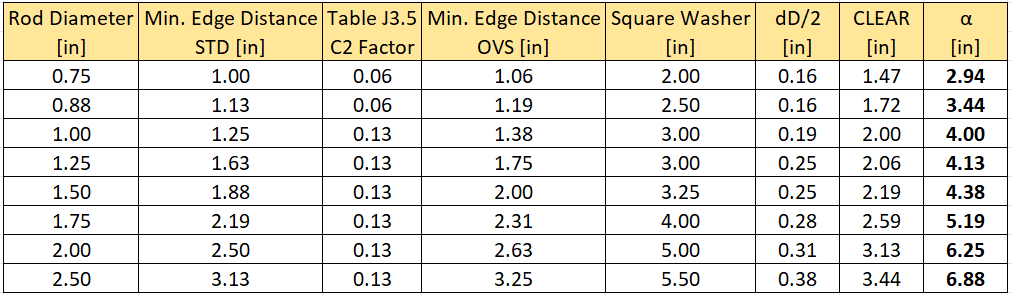
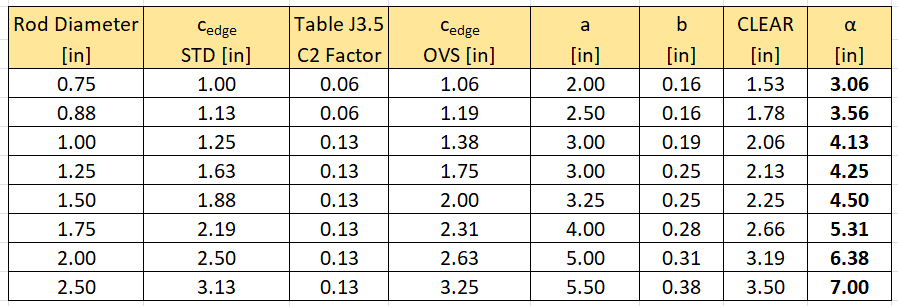
revisions

Changed region(s): [[0.0, 0.0, 1.0, 1.0]]

diff --git a/_posts/2022-12-10-shoedog.md b/_posts/2022-12-10-shoedog.md
@@ -10,9 +10,9 @@ tags: books
 
 As soon as I started reading Shoe Dog, I knew it was going to be one of *those* books. The ones you just can't put down. The ones that negatively impact your sleep schedule because: "just one more page!"
 
-Shoe Dog has been recommended to me probably a dozen times in the past few years. Now I can see why. I didn't think autobiographies could be this entertaining and engagingly. It was crisply written with an impeccable sense of humor and humility. Shoe Dog was a page-turner from start to finish.
+Shoe Dog has been recommended to me probably a dozen times in the past few years. I didn't think autobiographies could be this entertaining and engagingly. Crisply written with an impeccable sense of humor and humility, shoe Dog was a page-turner from start to finish.
 
-Shoe Dog is the life story, and business adventures of Phil Knight, founder of arguably the most recognizable sports brand in the world. We follow Phil on his journey from an ambitious MBA student trying to find his place in the world to founding and growing Nikes to a $170 billion global behemoth. Shoe Dog gives us an insider look at what business success looks like.
+Shoe Dog is the life story, and business adventures of Phil Knight, founder of arguably the most recognizable sports brand in the world. We follow Phil on his journey from an ambitious MBA student trying to find his place in the world to founding and growing Nike to a $170 billion global behemoth. Shoe Dog gives us an insider look at what business success looks like.
 
 ## Finding His Path
 
@@ -26,13 +26,13 @@ His adventure led him to Japan.
 
 * Back in the 1960s, Japan was known for its discipline, impeccable order, and extreme cleanliness. More than anything, Japan's economic miracle after the war showed the world what its industries are capable of.
 * During the second World War, American B-29s dropped 750,000 pounds of gasoline and flammable jelly in what was euphemistically named "strategic bombings". Tokyo, and many other cities back then were made largely of wood. Three hundred thousand people were burned alive during these bombing runs (4x more than Hiroshima), more than a million people injured, 80% of all buildings vaporized, cities were wiped off the map. 
-* From the ruins of the second world war, Japan recovered to become the third largest economy in the world. 
+* From the ruins of the second world war, Japan recovered to eventually become the third largest economy in the world. 
 * During his time at Stanford Business School, Phil wrote a research paper in his entrepreneurial seminar class on the opportunity in outsourcing shoe manufacturing to Japan. In brief, in the 1960s, Japan had its economic miracle and its cameras had made a deep cut into the camera market that was previously dominated by Germans. Seeing the opportunities created by globalization, Phil argued that the same thing could happen to running shoes.
-* Before the trip, Phil had prepared extensively for the different business practices in Japan. He wanted to pitch his "crazy idea" to a growing Japanese shoe company known as Onitsuka (now known as Asics)
+* Before the trip, Phil had prepared extensively for the different business practices in Japan. He wanted to pitch his "crazy idea" to a growing Japanese shoe company called Onitsuka (now known as Asics)
 
-> "The key is don't be pushy. Don't come on like the typical asshole American, the typical gaijin - rude, loud, aggressive, not taking no for an answer. The Japanese do not react well to the hard sell. Negotiations here tend to be soft, sinewy. [...] It's a culture of indirection. No one ever turns you down flat. No one ever says straight out, no. But they don't say yes, either. They speak in circles, sentences with no clear subject or object"
+> "The key is don't be pushy. Don't come on like the typical asshole American, the typical gaijin - rude, loud, aggressive, not taking no for an answer. The Japanese do not react well to the hard sell. Negotiations here tend to be soft, [...] It's a culture of indirection. No one ever turns you down flat. No one ever says straight out, no. But they don't say yes, either. They speak in circles, sentences with no clear subject or object"
 
-What happened in Japan is just amazing! A sign of extreme hutzpah (or arrogance I don't know...). Phil, as a jobless twenty-something year old with no income, managed to bluff his way into signing a US distribution deal with Onitsuka.
+What happened next is just amazing! A sign of extreme hutzpah (or arrogance I don't know...). Phil, as a jobless twenty-something year old with no income, managed to bluff his way into signing a US distribution deal with Onitsuka.
 
 > "Mr. Miyazaki interrupted. 'Mr. Knight, what company are you with?'"
 >
@@ -46,7 +46,7 @@ What happened in Japan is just amazing! A sign of extreme hutzpah (or arrogance 
 
 Of course, Blue Ribbon Sports didn't exist. At least not yet.
 
-After signing a distribution deal with Onitsuka, Phil worked part-time shipping shoes off from his garage while keeping his PwC accounting job. 
+After signing a distribution deal with Onitsuka, Phil worked part-time selling shoes in the back trunk of his car at university track meets, all the while keeping his PwC accounting job. 
 
 For about three years, Phil worked tirelessly and grew his distribution business to a decent size. His success in selling shoes was initially puzzling to him given his introverted nature and poor salesmanship skills. He realized he was able to sell shoes because he believed in running. Being a runner himself, Phil was also able to recruit some amazing partners, including legendary American running coach Bill Bowerman. 
 
@@ -56,50 +56,48 @@ Back in those days, venture capital was not a thing. Any aspiring entrepreneur o
 
 > "To have cash balance sitting around doing nothing made no sense to me. [...] I wanted to keep my foot pressed hard on the gas pedal"
 
-In 1966, Phil went back to Japan. Again, he worked his magic and bluffed his way into making Blue Ribbon the sole distributor (pun intended) of Onitsuka Tiger running shoes in the US.
+In 1966, Phil went back to Japan. Again, he worked his magic and bluffed his way into making Blue Ribbon the sole distributor (pun intended) of Onitsuka running shoes in the US.
 
 > "I tried to be nonchalant as I signed the papers and placed an order for 5,000 more shoes, which would cost $20,000 I didn't have. Kitami said he'd ship them to my East Coast Office, which I also didn't have"
 
 
 
-## Nikes And Birth of The Swoosh
+## Nike And Birth of The Swoosh
 
-Eventually, Blue Ribbons grew too big and the law of Thucydides trap prevailed. With some looming legal troubles from Onitsuka, it was clear that Blue Ribbon cannot rely on being a shoe distributor anymore. 
+Eventually, Blue Ribbons grew too big and Thucydides trap prevailed. With some looming legal troubles from Onitsuka on the horizon, it was clear that Blue Ribbon cannot rely on being a shoe distributor anymore. 
 
 By this time, Phil had quit his job at PwC to focus on Blue Ribbons. He also started teaching accounting courses at Oregon State University. At OSU, he met his eventual wife Penelope, as well as graphics design student Carolyn Davidson.
 
-After relocating some production to Canada and Mexico, the next order of business was to come up a name and a logo. For a brand that is as ubiquitous as Nikes and its swoosh, the background story is amusing to say the least!
+After relocating some production to Canada and Mexico, Phil needed a new name and a logo for his company. For a brand that is as ubiquitous as Nike, the back story behind the iconic swoosh is amusing to say the least!
 
 * Nike was actually not the original name, there were many other suggestions. Falcon, Dimension Six, Maverick, Bengal. Phil preferred Dimension Six but everyone else thought that was impossibly bad.
-* At the last minute, Jeff Johnson, one of the first employees, said a name came to him in a dream
+* At the last minute, Jeff Johnson, one of the first employees, claimed a name came to him in a dream
 
 > "He says he sat bolt upright in bed in the middle of the night and saw the name before him," Woodell said.
 >
 > "What is it?" I asked, bracing myself.
 >
-> "Nikes"
+> "Nike"
 >
 > "Huh?"
 >
-> "Nikes"
+> "Nike"
 >
 > "Spell it."
 
-* Nikes - the Greek goddess of victory. We can be glad they didn't pick Dimension Six.
+* Nike - the Greek goddess of victory. We can be glad they didn't pick Dimension Six.
 
-The story behind The Swoosh, now worth $33 billion dollars, is equally amusing. Phil recalled meeting a graphics design student at OSU. Carolyn Davidson. He called her and asked her to come up with some prototypes.
+The story behind The Swoosh, now worth $33 billion dollars by itself, is equally amusing. Phil recalled meeting a graphics design student at OSU. Carolyn Davidson. Wanting a design for cheap, he called her and asked her to come up with some prototypes.
 
-She came back with a portfolio of rough sketches. Phil was not a fan. What is it? A fat lightning bolt? Chubby check marks?
+* She created a portfolio of rough sketches. Phil was not a fan. What is it? A fat lightning bolt? Chubby check marks?
 
 > "Her design did evoke motion, of a kind, but also motion sickness. None spoke to me"
 
-She refined her design and eventually it stuck. For her many hours of work, Phil and his team gave Carolyn their deepest tanks and a check for $35. (Phil eventually gave her $1,000,000 in shares when Nike went public)
+* She refined her design and eventually it stuck. For her many hours of work, Phil and his team gave Carolyn their deepest thanks and a check for $35. (Phil eventually offered her $1,000,000 in shares when Nike went public)
 
-In 1971, Blue Ribbon was renamed to Nikes. Its debut waffle iron trainer was a massive success. This was just the beginning.
+Nike's first real hit was the waffle iron trainer. Need I say there is an amusing back story behind the waffle trainer? For one thing, The first pair were literally made in a waffle iron... Bill Bowerman, while watching his wife make waffles for breakfast, had the brilliant idea of shaping the sole in the same pattern as a waffle for better grip. Bill immediately went to work. Let's just say his wife had to get new waffle iron for breakfast next morning.
 
-
-
-The story behind the waffle iron trainer is bizarre and unbelievable in of itself. The first pairs were literally made in a waffle iron... Bill Bowerman, while watching his wife make waffles for breakfast, had the brilliant idea of shaping the sole in the same pattern as a waffle for better grip. Long story short, his wife had to get new waffle iron for breakfast next morning.
+In 1971, Blue Ribbon was renamed to Nike. Its debut waffle iron trainer was a massive success. That was just the beginning.
 
 
 
@@ -109,9 +107,56 @@ The story behind the waffle iron trainer is bizarre and unbelievable in of itsel
 
 
 
-## Some Other Notable Quotes
 
 
+
+
+
+
+
+
+## Notable Stories
+
+Honestly the book is filled to the brim with interesting stories and stunning tales of trials and tribulations Nike faced as a growing business. Definitely have a read for yourself. I'm leaving out a lot... Here are some of my favorites.
+
+<u>"There are worse things than ambition"</u>
+
+Nike had a few close calls given Phil's "grow or die" mentality. In 1975, they almost ran out of money and faced bankruptcy. One of its major lenders, Nissho Iwai, decided to investigate their books first before offering more lines of credit.
+
+Phil obviously had a few skeletons under the closet, including some major credit problems and a secret factory in Exeter. However, it turns out the man in charge of monitoring the Blue Ribbon investment at Nisso, Tom Sumeragi, had a few secret of his own.
+
+Having developed a very close relationship to Blue Ribbon and its founders, Sumeragi grew attached and saw Blue Ribbon as a one of his "business" child. He was worried about its credit problems and deliberately hid invoices until he felt Phil had enough cash to pay them, which in turn made it appear on the Nissho books that their credit exposure to Blue Ribbon was much lower than it actually was.
+
+After the credit issue was resolved, Sumeragi said to Phil: "There are worse things than ambition."
+
+
+
+<u>Merciless Self-loathers</u>
+
+In 1976, reflecting on the amazing founding team he had assembled at Nike, Phil concluded that the reason for their success was the fact that they were all alike.
+
+> We were mostly Oregon guys, which was important. We had an inborn need to prove ourselves, to show the world that we weren't hicks and hayseeds. And we were nearly all merciless self-loathers, which kept the egos in check. There was none of that smartest-guy-in-the-room foolishness.
+
+
+
+<u>Playing Dirty. American Selling Price</u>
+
+In 1977, Nike's American competitors, Converse, Keds, and a few small factories, successfully lobbied Washington into slowing Nike's growth and momentum.
+
+They succeeded by calling into effect an archaic law known as American Selling Price (ASP), which dictated that Nike must pay an one-time import duties of $25 million for years past, and 40% increase in duties going forward.
+
+* In essence, ASP states import duties on nylon shoes must be 20% of manufacturing cost of the shoe which is reasonable, BUT...
+* If there's a similar shoe manufactured by a competitor in the US, the duty must be 20% of the *competitor's* selling price
+* All the competitors had to do was make a few shoes in the US, declare them similar, and price them sky high, then boom, Nike's import duties increased by 40% (completely retroactively)
+* Worse yet, US Customs wanted to collect duties owed to them dating back many years, totaling $25 million which was a whole year's revenue for Nike at the time
+
+
+
+## Notable Quotes
+
+
+
+> "The cowards never started and the weak died along the way. That leaves us ladies and gentle. Us."
 
 
 
@@ -130,6 +175,16 @@ The story behind the waffle iron trainer is bizarre and unbelievable in of itsel
 > "When you run around an oval track, or down an empty road, you have no real destination At least, none that can fully justify the effort. The act itself becomes the destination."
 
 
+
+
+
+## Concluding Remarks From Phil Knight
+
+> God, how I wish I could relive the whole thing. Short of that, I'd like to share the experience, the ups and downs, so that some young man or woman, somewhere, going through the same trials and ordeals, might be inspired or comforted. Or warned. Some young entrepreneur, maybe, some athlete or painter or novelist, might press on. It's all the same drive. The same dream.
+>
+> [...]
+>
+> I'd like to warn the best of them, the iconoclasts, the innovators, the rebels, that they will always have a bull's-eye on their backs. The better they get, the bigger the bull's-eye. It's not one man's opinion; it's a law of nature.
 
 
 

diff --git a/_posts/2022-05-18-goodbye-youtube.md b/_posts/2022-05-18-goodbye-youtube.md
@@ -8,28 +8,28 @@ date: 2022-05-18
 tags: blog
 ---
 
-> "Moody entry today... I don't like my current self. To be honest, I feel quite miserable"
+> "Moody entry today... I don't like my current self. To be honest, I feel miserable"
 
 That was the start of one of my journal entry three months ago. A whole slew of unfortunate events happened earlier this year that has brought me much sadness. Aside from life's slings and arrows of outrageous fortune, I felt sluggish and unmotivated. On weekday evenings, after work, I waste majority of my time distracting myself with social media and video games. On weekends, in the midst of the most gorgeous Californian weather, I am either binging TV shows, or I find myself toiling away solving dynamic programming puzzles and reversing linked-lists. This is not the life I wanted. I recall thinking to myself.
 
-That was three months ago. I am happy to report that I've since lost 10 lbs. I am able to fit in my old pants again (although just barely), and I've developed much better eating and exercise habits. Although it's not perfect , and I doubt it will ever be, I am in a much better place both physically and mentally. 
+That was three months ago. I am happy to report that I've since lost 10 lbs. I am able to fit in my old pants again (although just barely), and I've developed much better eating and exercise habits. Although it's not perfect (I doubt it will ever be), I am in a much better place both physically and mentally. 
 
 <u>The Happiness Diet</u>
 
-After reading Anna Lembke's excellent book: '"Dopamine Nation" , I decided to cut back on highly stimulating activities and live a more "ascetic" lifestyle. I don't mean living like a monk (although I did shave my head bald), my intent was to regain balance in this age of indulgence and fully appreciate again the simple pleasures in life.
+After reading Anna Lembke's excellent book: '"Dopamine Nation" , I decided to cut back on highly stimulating activities and live a more "ascetic" lifestyle. I don't mean living like a monk (although I did shave my head bald), my intent was to regain balance in this age of indulgence and fully appreciate the simple pleasures in life again.
 
 Rather than "living to eat", I've switched to a life of "eating to live". As Benjamin Franklin once said: "Eat, but not to dullness". I also went on a diet and replaced much of my junk food intake with more nutritious, whole foods. On weekends, I've replaced my usual TV show binge with hiking and rock-climbing.
 
 <img src="/assets/img/blog/youtube3.png" style="width:90%;"/> 
 *Figure: A scene from my hike around the hills of Berkeley. View of the city in the background*
 
-And perhaps most importantly, an action that I believe would invariably improve everyone's life:
+And perhaps most importantly:
 
 <u>Quitting Social Media. Digital Detox</u>
 
 >  If we desire a future that avoids the enslavement of the propaganda state as well as the narcosis of the consumer and celebrity culture, we must first acknowledge the preciousness of our attention and resolve not to part with it so cheaply and unthinkingly as we so often have. And then we must act, individually and collectively, to make our attention our own again, and so reclaim ownership of The very experience of living. - Tim Wu in " The Attention Merchant"
 
-I think most of us would agree that too much social media can be harmful to our mental health. In this case, however, I am speaking much more generally in that I am avoiding *all forms of entertainment on our digital devices*. I will simply not allow myself to be entertained by my computer or cellphone.
+I think most of us would agree that too much social media can be harmful to our mental health. In this case, however, I am speaking much more generally. I am in effect avoiding *all forms of entertainment on our digital devices*. I will simply not allow myself to be entertained by my computer or cellphone.
 
 It was quite a startling discovery when I found out that I was wasting up to 17 hours a week on my smartphone. That is almost 900 hours a year (almost an entire month of time staring at a screen!) Imagine regaining a month of your life each year.
 
@@ -38,11 +38,11 @@ Here is a comparison of my smartphone usage before and after:
 |---|---|
 | <img src="/assets/img/blog/youtube2.png" style="width:90%;"/>   |   <img src="/assets/img/blog/youtube1.png" style="width:90%;"/>   |
 
-With the extra month I've gained each year, I started reading again, I reconnected with friends, found new hobbies, and revived old ones. Rather than scrolling through YouTube, I started exploring the beautiful landscape of California through hiking and weekly road trips. I started attending more social events and coworker happy hours. In short, I resumed the very act of living.
+With the extra month I've gained each year, I started reading again, I reconnected with friends, found new hobbies, and revived old ones. Rather than scrolling through YouTube, I started exploring the beautiful landscape of California through hiking and weekly road trips. I started attending more social events and happy hours. In short, I resumed the very act of living.
 
-I think most people are self-aware enough to know when something has to change. I am not here to sell you some generic self-help advice. I think most people know what they *should* do. Yet the challenge lies not in knowing, but in actually doing. If it were as simple as knowing, then the self-help book industry would cease to exist. I am extremely grateful to have encountered something that worked so well for me at the nadir of my misery. But what worked for me might not work for everyone else. I do hope everyone finds the thing that works for them during challenging times.
+I think most people are self-aware enough to know when something has to change. Yet the challenge lies not in knowing, but in actually doing. If it were as simple as knowing, then the self-help book industry would cease to exist. I am extremely grateful to have encountered something that worked so well for me at the nadir of my misery. 
 
-That being said, I feel more well-adjusted than I've ever been. I've regained the ability to appreciate the small things in life, from a particularly well-fitting shirt, to the perfect morning tea at my local cafe. Life's simple pleasures, ones that were so cruelly robbed from me by our digital overlords, or perhaps I willingly gave away, were finally reclaimed.
+That being said, I feel grateful. I've regained the ability to appreciate the small things in life, from a particularly well-fitting shirt, to the perfect morning tea at my local cafe. Life's simple pleasures, ones that were so cruelly robbed from me by our digital overlords, or perhaps I willingly gave away, were finally reclaimed.
 
 Goodbye YouTube! Hello World!
 

diff --git a/_posts/2022-12-11-crawlwalkrun.md b/_posts/2022-12-11-crawlwalkrun.md
@@ -8,9 +8,9 @@ date: 2022-12-11
 tags: thoughts
 ---
 
-I had an interesting thought today while watching some C# tutorial on Udemy. You know the phrase: "Don't run before you can walk"? Its meant to warn against doing something too advanced before you can do something simpler. To put it another way, have a solid foundation. Overstretching your capacity can dangerous. 
+I had an interesting thought today while following some C# tutorial on Udemy. You know the phrase: "Don't run before you can walk"? Its meant to warn against doing something too advanced before you can do something simpler. To put it another way, have a solid foundation, don't overstretching your capacity, don't fly too close to the sun.
 
-I think the proverb is generally true, but perhaps not fully true in this rapidly advancing world of ours. With the advent of powerful search engines, and Q&A forums, it is perhaps appropriate to append another phrase:
+I think the phrase is generally true, but perhaps not fully in this rapidly advancing world of ours. With the advent of powerful search engines, and Q&A forums, it is perhaps appropriate to append something else:
 
 > "Don't run before you can walk; but try to fly as soon as you can run"
 
@@ -22,15 +22,15 @@ Peter Drucker, the famous management theorist, once noted the necessity and impo
 
 This message is perhaps most salient in the software engineering world. Tech stacks are constantly evolving. It seems like a new Javascript library is born every couple of weeks. Although some fundamental skills are transferable and evergreen, there will inevitably be skills that are not. Programmers are finding themselves in a constant need to learn new things, and keep up with the latest trends. 
 
-In the programming tutorial circle, there is a concept known as **"Tutorial Hell"**. It's a phenomenon where you watch one tutorial after another, without ever building something on your own. Although following step-by-step tutorials seem productive, the learning rate is **linear** and eventually tapers off. 
+In the programming tutorial circle, there is a concept known as **"Tutorial Hell"**. It's a phenomenon where you watch one tutorial after another, without ever building something on your own. Although following step-by-step tutorials might seem productive, the learning rate is **linear**, and eventually tapers off to near zero. 
 
 Most learning comes from trial and error. Imagine trying to learn a new language like Spanish. Yes, Duolingo may be helpful in the beginning, but eventually you would need to immerse yourself in the language. Speak Spanish to other people, listen to Spanish podcasts, watch Spanish films, read Spanish articles. In other words, following tutorial is necessary, but not sufficient.
 
-This brings me to my point! There was a time before the internet when the only source of learning comes from textbooks or university classes. If you ever run into a problem, you need to physically go to a library, and flip through volumes of textbooks. If you are lucky enough, there would be a subject matter expert you can reach and ask questions. 
+This brings me to my point! There was a time before the internet when the only source of learning comes from textbooks or university classes. If you ever run into a problem, you need to physically go to a library, and flip through volumes of textbooks. If you are lucky enough, there would be a subject matter expert you can reach and ask questions. In other words, the latency between "having a question" to "getting to a solution" is too high for any dramatic over extension of your capacity.
 
-In the modern world, equipped with tools like Google and StackOverflow, we should aim for **exponential** rate of learning! As soon as you have enough foundation for the basics (i.e. you can walk), immediately try to building something on your own (i.e. try to fly!). 
+In the modern world, I would argue we want to deliberately overextend! Get yourself confused! Try to pursue projects that you know you can't build (yet). Equipped with tools like Google and StackOverflow, we should aim for **exponential** rate of learning!
 
-No need to worry about flying too close to the sun! You have access to thousands of experts just a few keystrokes away. What a time to be alive!
+No need to worry about flying too close to the sun! You have a jetpack! Not some flimsy wing made with bird feather and wax. With just a few keystrokes, you have access to thousands of experts online, and response to questions someone else on Earth probably have already asked at some point in the past. What a time to be alive!
 
 
 

diff --git a/_posts/2022-07-27-selfhelp.md b/_posts/2022-07-27-selfhelp.md
@@ -5,18 +5,18 @@ title: "Self-Help"
 description: "Reflecting on my ever growing collection of self-help books"
 image: assets/img/blog/selfhelp.png
 date: 2022-07-27
-tags: thoughts
+tags: blog
 ---
 
 Over the last 10 years, I've read pretty much every popular self-help book under the sun (From Dale Carnegie to Napoleon Hill to Mark Manson to Jordan Peterson). This particular genre occupies an embarrassingly large amount of space on my bookshelf. I've once read somewhere that a man can be fairly accurately defined by the content of his bookshelf. I wonder what this ever-growing collection of guide to self-transcendence says about me. While some self-help books are genuinely helpful, life-changing even, others are formulaic. Over time, I've come to realize two important facts about self-help:
 
-* The more self-help book you read, the less insightful they become (especially when read in a binge-fashion). Having a handbag of self-help tips is useless when they are unrelatable to one's own life experience, or worse yet taken as dogma without any critical thought
+* The more self-help book you read, the less insightful they become (especially when read in a binge-fashion). Having a handbag of self-help tips is useless when they are unrelatable to one's own life experience, or worse yet taken as dogma
 * Knowing is just the first step. Making genuine change is always difficult, if not nearly impossible. There is a quote from the movie "Fight Club" that hits embarrassingly close to home:
 
 > "Self improvement is masturbation" - Tyler Durden
 
-It's often trivially obvious what we need to do to improve our lives; eat more vegetables, get more sleep, exercise more, the list goes on. The act of reading self-help books might mislead us into thinking some progress is being made when we are in reality stagnant. This is confusion at best, self-delusion at worst.
+It's often trivially obvious what we need to do to improve our lives; eat more vegetables, get more sleep, exercise more, the list goes on. The act of reading self-help books might mislead us into thinking some progress is being made when we are in reality stagnant.
 
-In fact, almost all books have some "self-help" value to them. What constitutes "self-help" is loosely defined. A book that is completely perspective-changing might be more valuable than a heavy-handed prescriptive list of rules for better time-management, better productivity, and a better life (or worse yet, how to get rich!)
+In fact, almost all books have some "self-help" value to them. What constitutes "self-help" is loosely defined. A book that is completely perspective-changing might be more valuable than a heavy-handed prescriptive list of rules for better time-management, better productivity, a better life.
 
 Anyways, I guess this post is more of a self-reminder. Less reading! More doing!

diff --git a/_posts/2022-11-22-baseplate.md b/_posts/2022-11-22-baseplate.md
@@ -120,14 +120,31 @@ The recommended hole dimensions are shown in the table below. Notice how AISC de
 
 Minimum edge dimension is specified in AISC 360-16 Table J3.4 and J3.5. However, these minimum edge distance usually does not govern. Instead, we need to take into account the worst case of a misaligned anchor rod + washer dimension. See illustration and table below.
 
-<img src="/assets/img/blog/baseplate3.png" style="width:75%;"/>
+Figure 4 below provides recommended extension lengths based on the worst case of 1.) minimum edge distance and 2.) providing enough clearance for 5/16" weld around washer.
+
+Let:
+
+* $$a$$ = washer dimension
+* $$c_{edge}$$ = minimum edge distance per AISC 360
+* $$b, \mbox{clear}, \alpha$$ = see figure 3
+
+$$b = (d_{hole} - d_{rod})/2$$
+
+$$\mbox{clear} = a/2 + b + 3/8 $$
+
+$$\alpha = max(\mbox{clear}, c_{edge}) \times 2$$
+
+<img src="/assets/img/blog/baseplate4.png" style="width:75%;"/>
 *Figure 3: Misaligned Rod + Washer Dimension*
 
 <img src="/assets/img/blog/baseplate3.png" style="width:75%;"/>
 *Figure 4: Minimum Edge Distances and Recommended Base Plate Size*
 
 
-Here are my recommendations for preliminary base plate dimensions.
+
+
+
+In summary, here are my recommendations for preliminary base plate dimensions.
 
 <u>Recommended Width - B</u>
 
@@ -426,7 +443,7 @@ def rigid_plate_distribution(width, depth, fpc, Mu, Pu, x_i, N_i, beta = 1.0,
             Y_final = secant_method(Y0,Y1,equilibrium_equations)
         except:
             raise RuntimeError("Did not converge")
-            
+
         # final load distribution
         sum_M, t_i, T_i, comp = equilibrium_equations(Y_final)
         sum_F = sum(T_i) + Pu + comp
